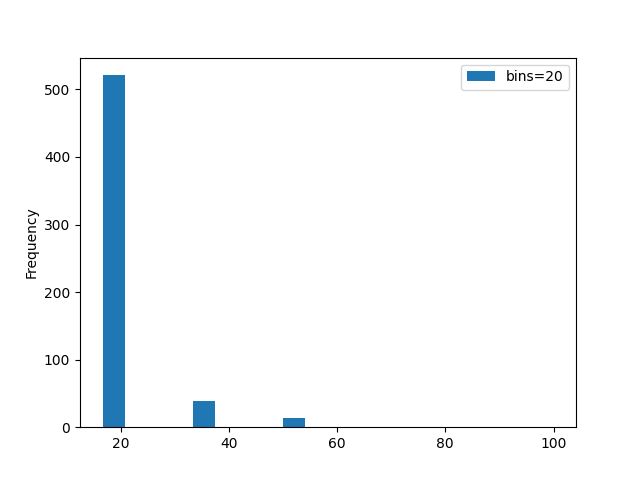
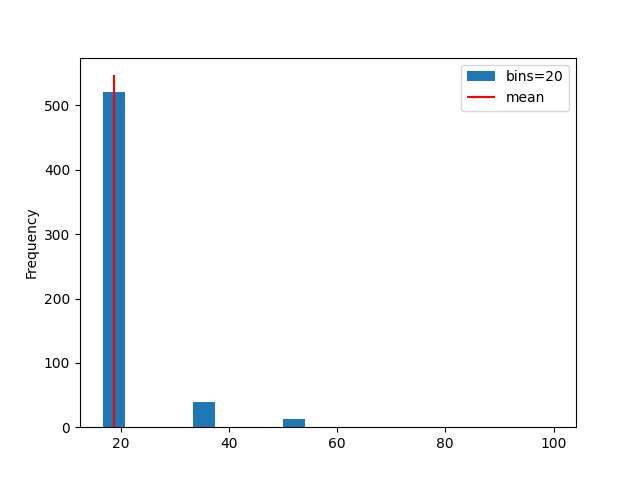
Draw mean on histrogram

diff --git a/main.py b/main.py
@@ -78,15 +78,17 @@ ax = measurements.plot.kde(label="kde")
 xlim = plt.xlim()
 plt.xlim((max(0.0, xlim[0]), xlim[1]))  # perf data is always positive
 (ymin, ymax) = ax.get_ylim()
-plt.vlines(s["ols_estimate"], ymin, ymax, color="red", label="ols estimate")
-plt.vlines(s["mean"], ymin, ymax, color="blue", label="mean")
+plt.vlines(s["ols_estimate"], ymin, ymax, color="blue", label="ols estimate")
+plt.vlines(s["mean"], ymin, ymax, color="red", label="mean")
 plt.legend()
 
 plt.savefig("docs/kde.png")
 plt.figure()
 
 for n in [10, 20, 100, 200, 500]:
-    measurements.plot.hist(bins=n, label=f"bins={n}")
+    ax = measurements.plot.hist(bins=n, label=f"bins={n}")
+    (ymin, ymax) = ax.get_ylim()
+    plt.vlines(s["mean"], ymin, ymax, color="red", label="mean")
     plt.legend()
     plt.savefig(f"docs/histogram-bin-{n}.png")
     plt.figure()
